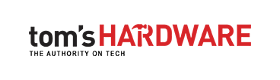
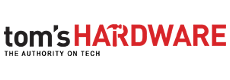
media

Changed region(s): [[0.0, 0.3, 1.0, 0.6], [0.0, 0.625, 0.4565, 0.7]]

diff --git a/src/index.html b/src/index.html
@@ -562,6 +562,9 @@ document.createElement('video');
                                    <!--<a href="http://www.jugtorino.it/banner_droidcon.png" target="_blank"><img src="assets/images/sponsor/droidcon.png"  target="_blank" class="" alt=""></a>-->
                                    <a href="http://www.jugtorino.it/vqwiki/jsp/Wiki" target="_blank"><img src="assets/images/sponsor/jug.jpg"  target="_blank" class="" alt=""></a>
                                    <a href="http://www.poloinnovazioneict.org/" target="_blank"><img src="assets/images/sponsor/poloICT_logo.png"  target="_blank" class="" alt=""></a>
+                                   <br>
+                                   <a href="http://www.mrwebmaster.it" target="_blank"><img src="assets/images/sponsor/mrwebmaster.png"  target="_blank" class="" alt=""></a>
+                                   <a href="http://www.tomshw.it" target="_blank"><img src="assets/images/sponsor/toms.png"  target="_blank" class="" alt=""></a>
                                </div>
                             </div>
                        </div>
